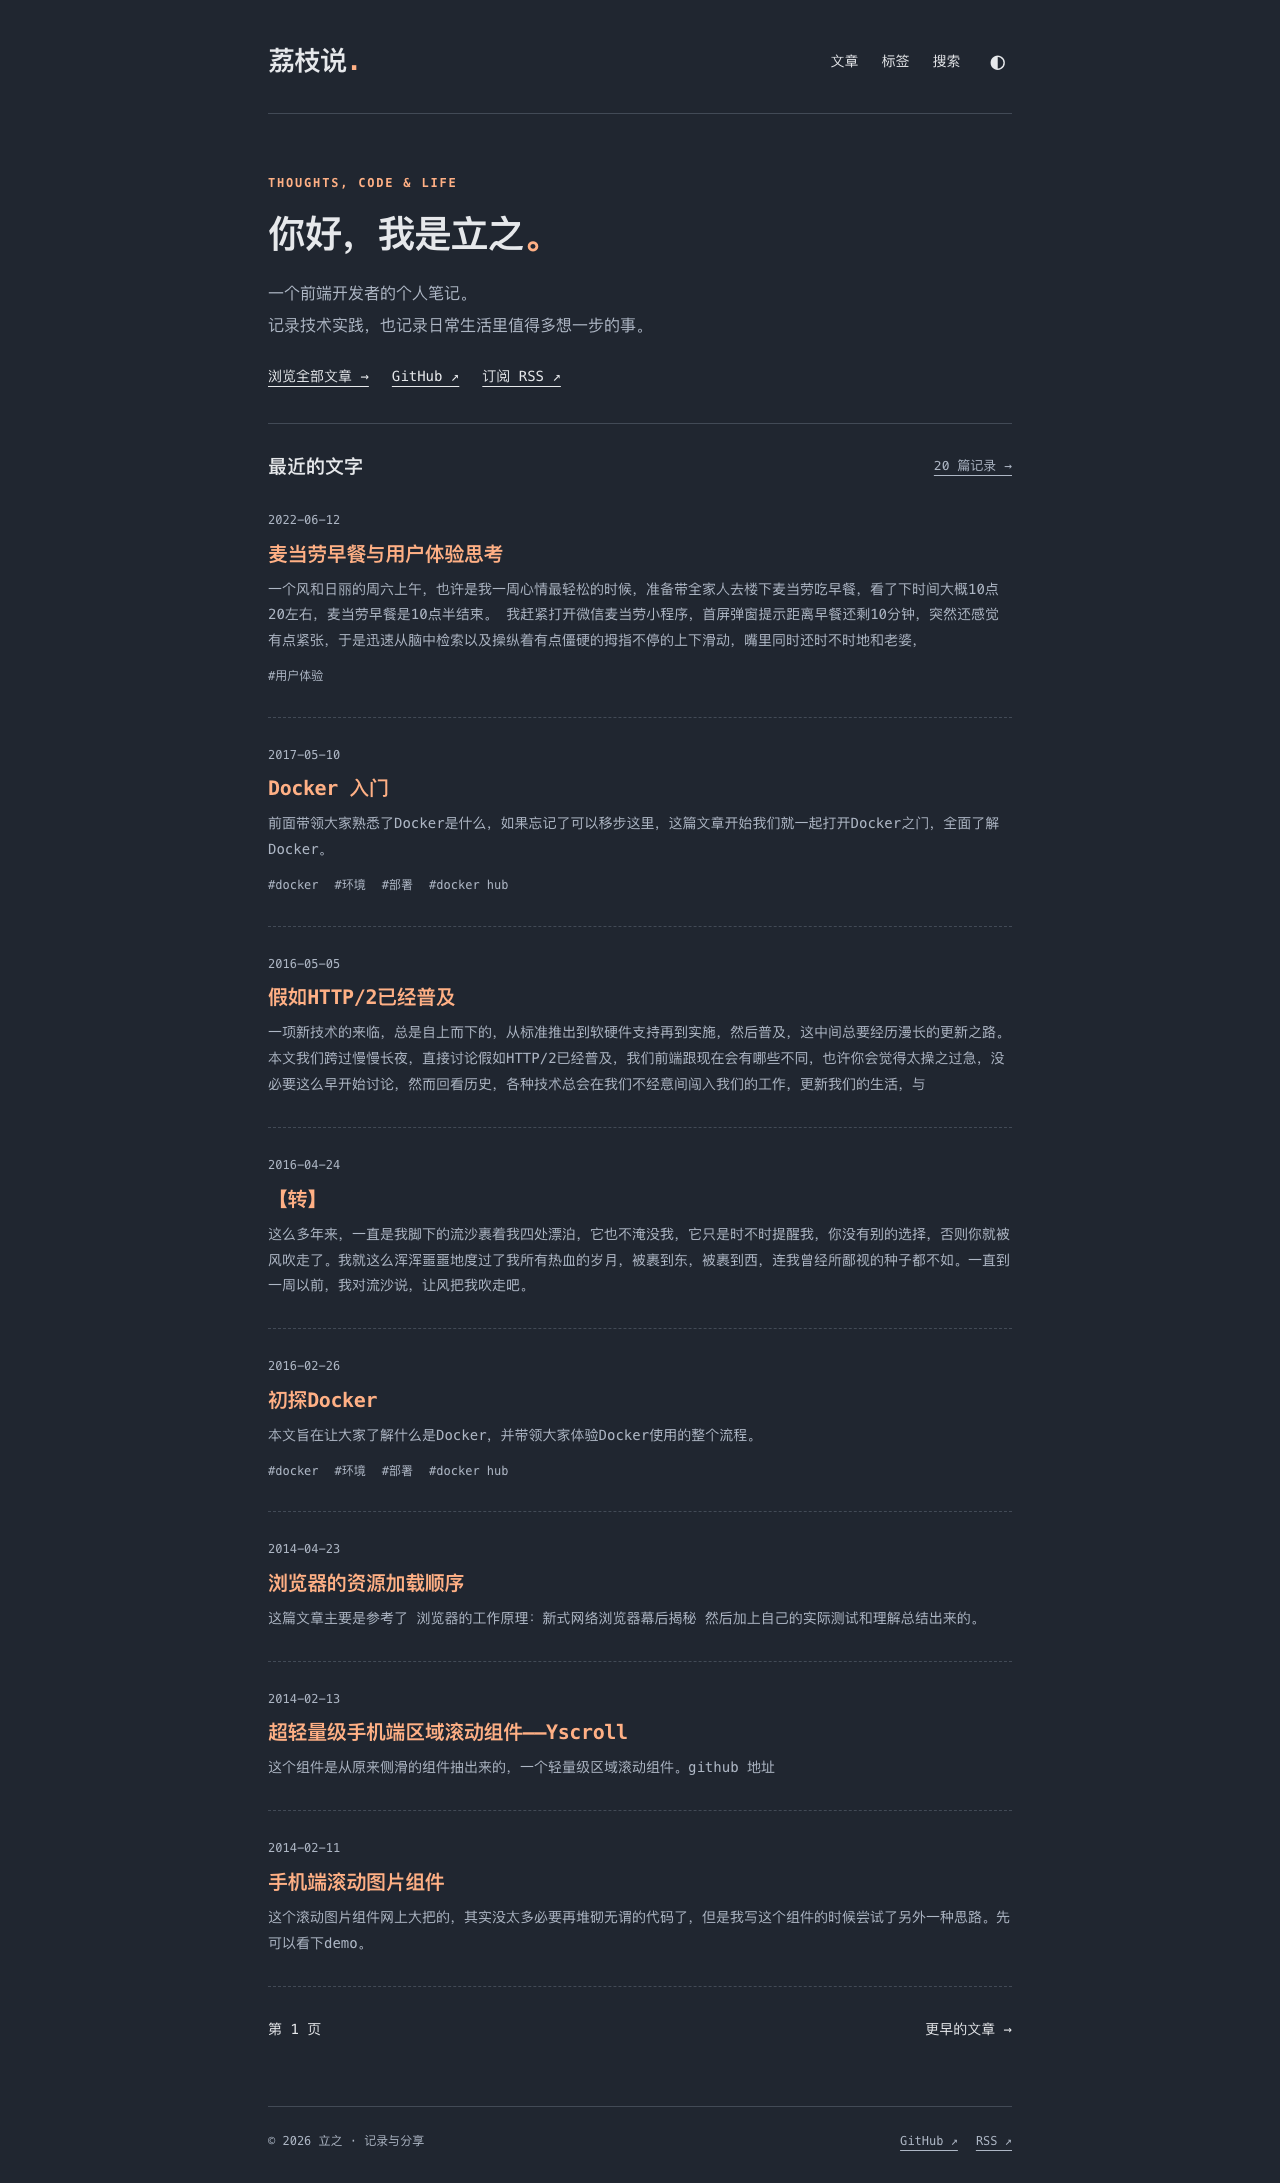
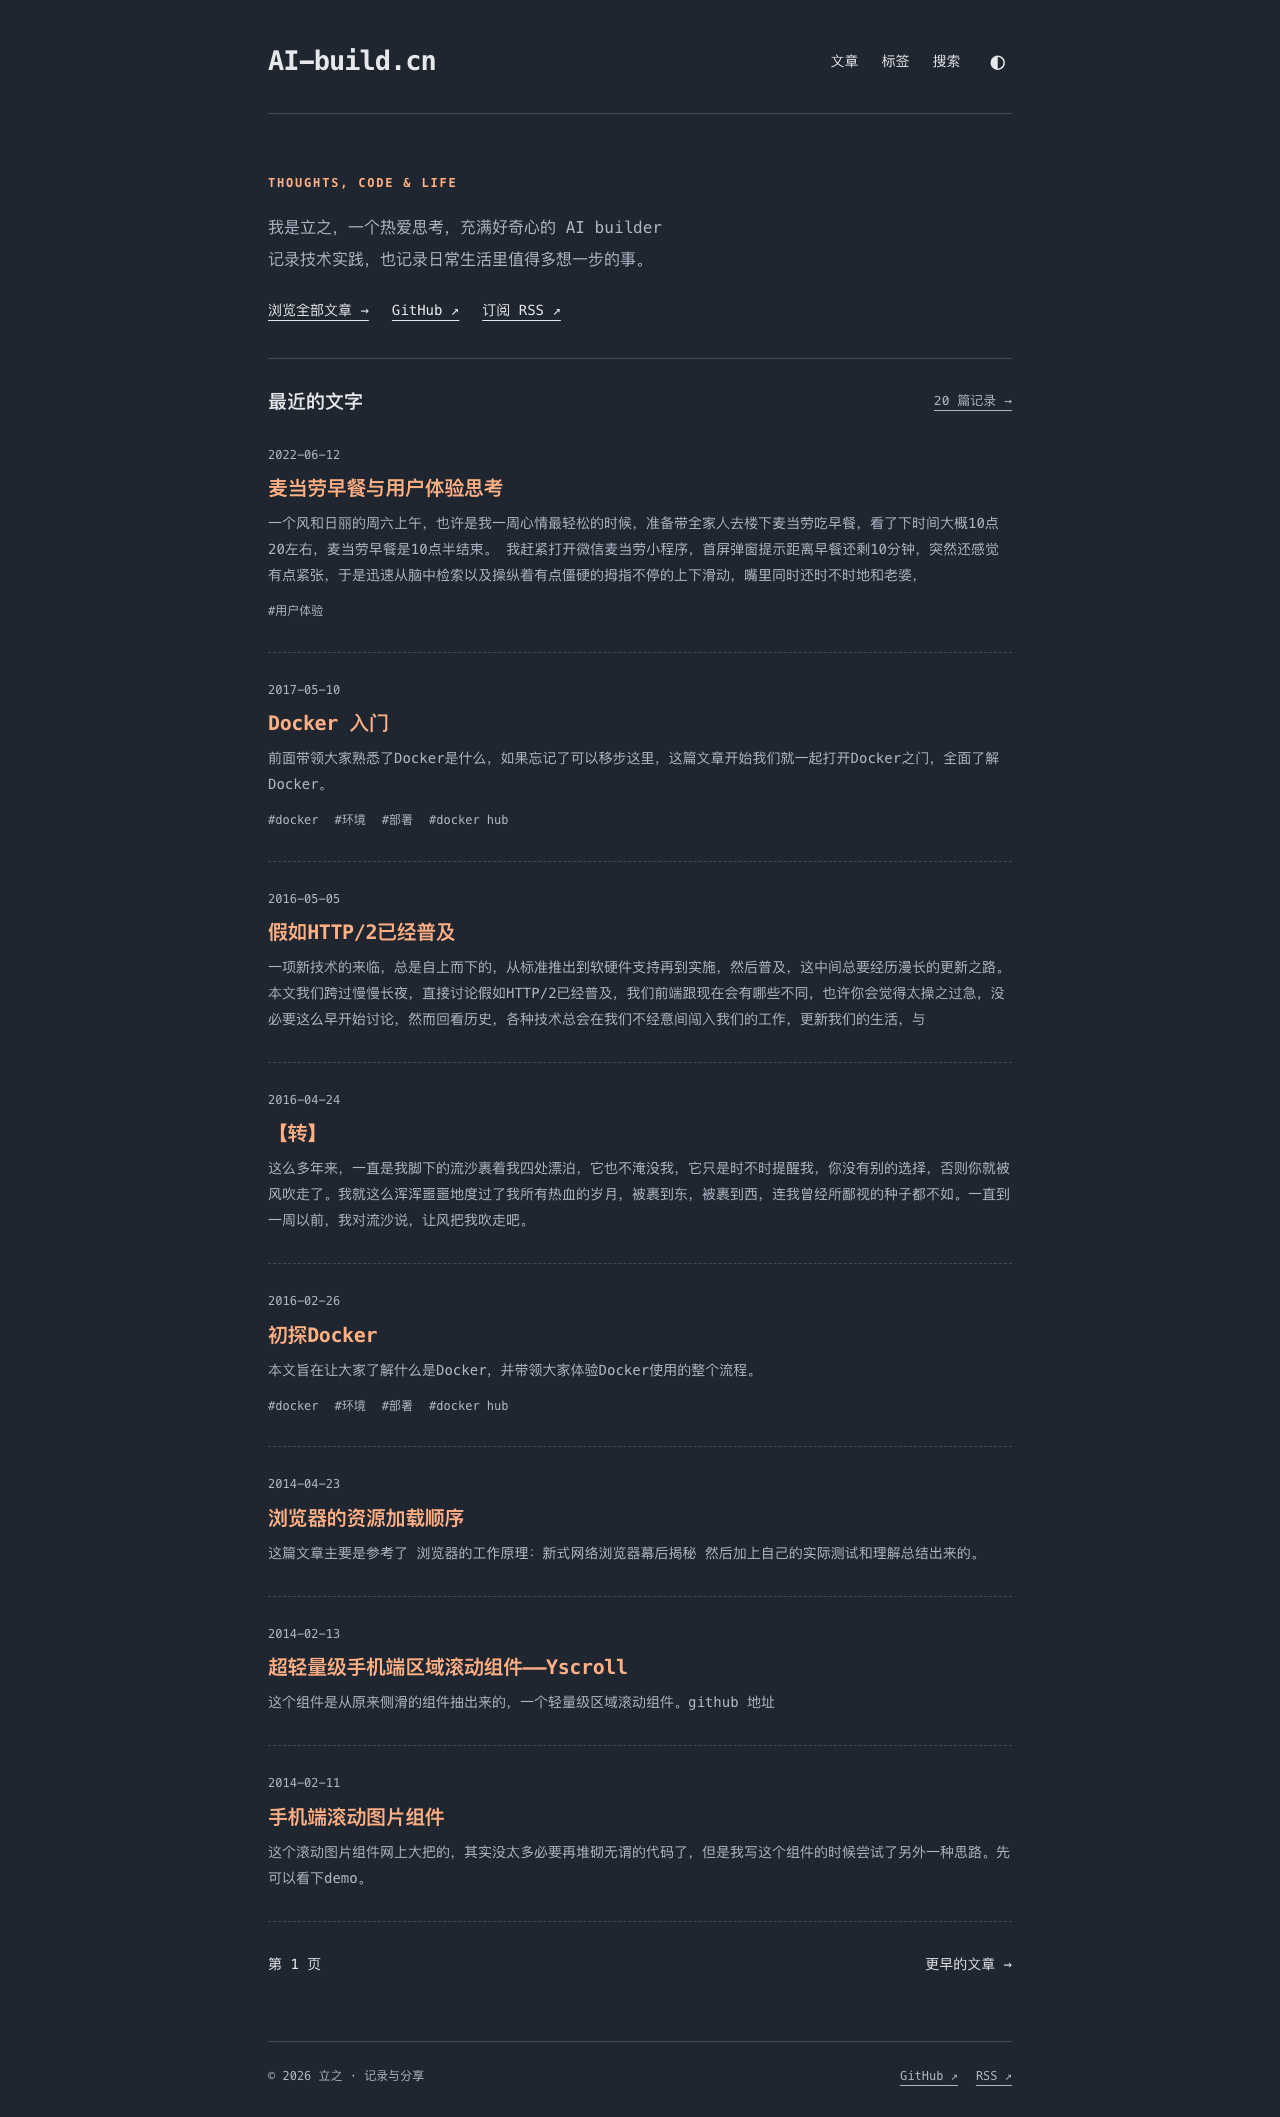
Update site branding and simplify homepage introduction

diff --git a/src/styles/global.css b/src/styles/global.css
@@ -1,8 +1,11 @@
 :root{color-scheme:light;--bg:#faf9f6;--text:#242a32;--muted:#626a75;--accent:#a84629;--line:#deded8;--soft:#efeee9;--code:#f1f1ed}
 :root[data-theme=dark]{color-scheme:dark;--bg:#202630;--text:#e6e8eb;--muted:#aeb7c5;--accent:#ffb085;--line:#424a56;--soft:#2b3340;--code:#29323e}
 @media(prefers-color-scheme:dark){:root:not([data-theme=light]){color-scheme:dark;--bg:#202630;--text:#e6e8eb;--muted:#aeb7c5;--accent:#ffb085;--line:#424a56;--soft:#2b3340;--code:#29323e}}
-*{box-sizing:border-box}html{scroll-padding-top:2rem}body{margin:0;background:var(--bg);color:var(--text);font-family:ui-monospace,SFMono-Regular,Menlo,Consolas,"PingFang SC","Microsoft YaHei",monospace;font-size:16px;line-height:1.8;-webkit-font-smoothing:antialiased}a{color:inherit;text-underline-offset:5px;text-decoration-thickness:1px}a:hover{color:var(--accent)}button,input{font:inherit}button{color:inherit}a,button,input{touch-action:manipulation}:focus-visible{outline:2px dashed var(--accent);outline-offset:5px}.site-shell{max-width:800px;padding:0 28px;margin:auto}.site-header{display:flex;align-items:center;justify-content:space-between;padding:37px 0 27px;border-bottom:1px solid var(--line);gap:20px}.brand{font-size:27px;font-weight:800;text-decoration:none;letter-spacing:-1px}.brand-dot{color:var(--accent)}nav{display:flex;align-items:center;gap:23px;font-size:14px}nav a{text-decoration:none}nav a[aria-current]{text-decoration:underline;color:var(--accent)}#theme-toggle{background:none;border:0;padding:3px 7px;font-size:24px;cursor:pointer;line-height:1}main{min-height:65vh;padding:42px 0 64px}main:focus{outline:none}.eyebrow{color:var(--accent);font-size:12px;letter-spacing:.15em;font-weight:600}.intro{padding:12px 0 34px}.intro h1{font-size:clamp(28px,5vw,38px);letter-spacing:-1.5px;margin:12px 0 16px;line-height:1.4}.intro p{max-width:590px;color:var(--muted);font-size:16px;line-height:2}.intro-links{display:flex;gap:23px;margin-top:22px;font-size:14px}.section-title{display:flex;justify-content:space-between;align-items:center;border-top:1px solid var(--line);padding-top:25px;margin-bottom:0}.section-title h2{font-size:19px;margin:0}.section-title a{font-size:13px;color:var(--muted)}.post-list{padding:0;list-style:none;margin:0}.post-list>li{padding:27px 0 29px;border-bottom:1px dashed var(--line)}.post-meta{font-size:12px;color:var(--muted);display:flex;gap:12px}.post-list h2{font-size:20px;line-height:1.6;margin:6px 0 7px;letter-spacing:-.4px}.post-list h2 a{color:var(--accent);text-decoration:none}.post-list h2 a:hover{text-decoration:underline}.post-list p{margin:0;color:var(--muted);font-size:14px;line-height:1.85;overflow-wrap:anywhere}.post-tags{display:flex;flex-wrap:wrap;gap:8px 16px;font-size:12px;margin-top:12px;color:var(--muted)}.post-tags a{text-decoration:none}.page-heading{font-size:28px;line-height:1.45;margin:10px 0}.page-description{color:var(--muted);margin-bottom:32px;font-size:14px}.breadcrumb{font-size:13px;color:var(--muted);margin-bottom:26px}.article-header h1{font-size:clamp(26px,5vw,34px);line-height:1.5;letter-spacing:-.7px;margin:16px 0}.article-header{margin-bottom:32px}.prose{line-height:1.95;overflow-wrap:anywhere}.prose p{margin:1.3em 0}.prose h1,.prose h2,.prose h3,.prose h4{line-height:1.5;margin:1.8em 0 .7em}.prose h2{font-size:24px;padding-bottom:8px;border-bottom:1px dashed var(--line)}.prose h3{font-size:20px}.prose h4{font-size:17px}.prose a{color:var(--accent)}.prose img{display:block;max-width:100%;height:auto;margin:24px auto;border-radius:3px}.prose img[width="30%"]{width:240px;max-width:75%}.prose pre{padding:20px;overflow-x:auto;border:1px solid var(--line);border-radius:5px;font-size:13px;line-height:1.7;max-width:100%}.prose :not(pre)>code{background:var(--code);padding:2px 5px;border-radius:3px;font-size:.9em}.prose blockquote{border-left:3px solid var(--accent);margin:24px 0;padding:1px 20px;color:var(--muted);background:var(--soft)}.prose table{display:block;overflow-x:auto;border-collapse:collapse;font-size:14px}.prose th,.prose td{padding:8px 12px;border:1px solid var(--line)}.prose iframe{max-width:100%}.prose hr{border:0;border-top:1px solid var(--line);margin:30px 0}.toc{padding:16px 20px;background:var(--soft);border-radius:5px;font-size:14px;margin-bottom:30px}.toc summary{cursor:pointer;font-weight:600}.toc ul{padding-left:20px}.toc a{color:var(--muted)}.article-end{border-top:1px solid var(--line);margin-top:40px;padding-top:20px;display:flex;justify-content:space-between;font-size:14px;gap:18px}.site-footer{padding:24px 0 30px;border-top:1px solid var(--line);display:flex;justify-content:space-between;gap:16px;font-size:12px;color:var(--muted)}.site-footer div{display:flex;gap:18px}.skip-link{position:fixed;top:-100px;left:12px;padding:10px 16px;background:var(--bg);z-index:100}.skip-link:focus{top:8px}.tag-cloud{display:flex;flex-wrap:wrap;gap:14px;margin:25px 0}.tag-cloud a{border:1px solid var(--line);padding:7px 14px;border-radius:4px;font-size:14px;text-decoration:none}.pagination{display:flex;justify-content:space-between;align-items:center;gap:12px;margin-top:30px;font-size:14px}.search-input{display:block;width:100%;background:var(--soft);border:1px solid var(--line);color:var(--text);padding:14px 16px;border-radius:4px;margin:12px 0}.search-status{color:var(--muted);font-size:13px}.draft-notice{padding:10px 15px;background:var(--soft);border-left:3px solid var(--accent)}
+*{box-sizing:border-box}html{scroll-padding-top:2rem}body{margin:0;background:var(--bg);color:var(--text);font-family:ui-monospace,SFMono-Regular,Menlo,Consolas,"PingFang SC","Microsoft YaHei",monospace;font-size:16px;line-height:1.8;-webkit-font-smoothing:antialiased}a{color:inherit;text-underline-offset:5px;text-decoration-thickness:1px}a:hover{color:var(--accent)}button,input{font:inherit}button{color:inherit}a,button,input{touch-action:manipulation}:focus-visible{outline:2px dashed var(--accent);outline-offset:5px}.site-shell{max-width:800px;padding:0 28px;margin:auto}.site-header{display:flex;align-items:center;justify-content:space-between;padding:37px 0 27px;border-bottom:1px solid var(--line);gap:20px}.brand{white-space:nowrap;font-size:27px;font-weight:800;text-decoration:none;letter-spacing:-1px}.brand-dot{color:var(--accent)}nav{display:flex;align-items:center;gap:23px;font-size:14px}nav a{text-decoration:none}nav a[aria-current]{text-decoration:underline;color:var(--accent)}#theme-toggle{background:none;border:0;padding:3px 7px;font-size:24px;cursor:pointer;line-height:1}main{min-height:65vh;padding:42px 0 64px}main:focus{outline:none}.eyebrow{color:var(--accent);font-size:12px;letter-spacing:.15em;font-weight:600}.intro{padding:12px 0 34px}.intro p{max-width:590px;color:var(--muted);font-size:16px;line-height:2}.intro-links{display:flex;gap:23px;margin-top:22px;font-size:14px}.section-title{display:flex;justify-content:space-between;align-items:center;border-top:1px solid var(--line);padding-top:25px;margin-bottom:0}.section-title h2{font-size:19px;margin:0}.section-title a{font-size:13px;color:var(--muted)}.post-list{padding:0;list-style:none;margin:0}.post-list>li{padding:27px 0 29px;border-bottom:1px dashed var(--line)}.post-meta{font-size:12px;color:var(--muted);display:flex;gap:12px}.post-list h2{font-size:20px;line-height:1.6;margin:6px 0 7px;letter-spacing:-.4px}.post-list h2 a{color:var(--accent);text-decoration:none}.post-list h2 a:hover{text-decoration:underline}.post-list p{margin:0;color:var(--muted);font-size:14px;line-height:1.85;overflow-wrap:anywhere}.post-tags{display:flex;flex-wrap:wrap;gap:8px 16px;font-size:12px;margin-top:12px;color:var(--muted)}.post-tags a{text-decoration:none}.page-heading{font-size:28px;line-height:1.45;margin:10px 0}.page-description{color:var(--muted);margin-bottom:32px;font-size:14px}.breadcrumb{font-size:13px;color:var(--muted);margin-bottom:26px}.article-header h1{font-size:clamp(26px,5vw,34px);line-height:1.5;letter-spacing:-.7px;margin:16px 0}.article-header{margin-bottom:32px}.prose{line-height:1.95;overflow-wrap:anywhere}.prose p{margin:1.3em 0}.prose h1,.prose h2,.prose h3,.prose h4{line-height:1.5;margin:1.8em 0 .7em}.prose h2{font-size:24px;padding-bottom:8px;border-bottom:1px dashed var(--line)}.prose h3{font-size:20px}.prose h4{font-size:17px}.prose a{color:var(--accent)}.prose img{display:block;max-width:100%;height:auto;margin:24px auto;border-radius:3px}.prose img[width="30%"]{width:240px;max-width:75%}.prose pre{padding:20px;overflow-x:auto;border:1px solid var(--line);border-radius:5px;font-size:13px;line-height:1.7;max-width:100%}.prose :not(pre)>code{background:var(--code);padding:2px 5px;border-radius:3px;font-size:.9em}.prose blockquote{border-left:3px solid var(--accent);margin:24px 0;padding:1px 20px;color:var(--muted);background:var(--soft)}.prose table{display:block;overflow-x:auto;border-collapse:collapse;font-size:14px}.prose th,.prose td{padding:8px 12px;border:1px solid var(--line)}.prose iframe{max-width:100%}.prose hr{border:0;border-top:1px solid var(--line);margin:30px 0}.toc{padding:16px 20px;background:var(--soft);border-radius:5px;font-size:14px;margin-bottom:30px}.toc summary{cursor:pointer;font-weight:600}.toc ul{padding-left:20px}.toc a{color:var(--muted)}.article-end{border-top:1px solid var(--line);margin-top:40px;padding-top:20px;display:flex;justify-content:space-between;font-size:14px;gap:18px}.site-footer{padding:24px 0 30px;border-top:1px solid var(--line);display:flex;justify-content:space-between;gap:16px;font-size:12px;color:var(--muted)}.site-footer div{display:flex;gap:18px}.skip-link{position:fixed;top:-100px;left:12px;padding:10px 16px;background:var(--bg);z-index:100}.skip-link:focus{top:8px}.tag-cloud{display:flex;flex-wrap:wrap;gap:14px;margin:25px 0}.tag-cloud a{border:1px solid var(--line);padding:7px 14px;border-radius:4px;font-size:14px;text-decoration:none}.pagination{display:flex;justify-content:space-between;align-items:center;gap:12px;margin-top:30px;font-size:14px}.search-input{display:block;width:100%;background:var(--soft);border:1px solid var(--line);color:var(--text);padding:14px 16px;border-radius:4px;margin:12px 0}.search-status{color:var(--muted);font-size:13px}.draft-notice{padding:10px 15px;background:var(--soft);border-left:3px solid var(--accent)}
 :root[data-theme=dark] .astro-code,:root[data-theme=dark] .astro-code span{color:var(--shiki-dark)!important;background-color:var(--shiki-dark-bg)!important}
 @media(prefers-color-scheme:dark){:root:not([data-theme=light]) .astro-code,:root:not([data-theme=light]) .astro-code span{color:var(--shiki-dark)!important;background-color:var(--shiki-dark-bg)!important}}
-@media(max-width:540px){.site-shell{padding:0 20px}.site-header{padding:25px 0 21px;gap:12px}.brand{font-size:23px}nav{gap:15px;font-size:13px}main{padding-top:30px}.intro{padding-top:5px}.intro h1{letter-spacing:-1px}.post-list h2{font-size:18px}.site-footer{flex-direction:column;gap:6px}.prose{font-size:15px}.prose pre{padding:14px}.article-end{flex-wrap:wrap}}
+@media(max-width:540px){.site-shell{padding:0 20px}.site-header{padding:25px 0 21px;gap:12px}.brand{font-size:23px}nav{gap:15px;font-size:13px}main{padding-top:30px}.intro{padding-top:5px}.post-list h2{font-size:18px}.site-footer{flex-direction:column;gap:6px}.prose{font-size:15px}.prose pre{padding:14px}.article-end{flex-wrap:wrap}}
 @media(prefers-reduced-motion:no-preference){html{scroll-behavior:smooth}}
+
+.sr-only{position:absolute;width:1px;height:1px;padding:0;margin:-1px;overflow:hidden;clip:rect(0,0,0,0);white-space:nowrap;border:0}
+@media(max-width:380px){.site-header{flex-wrap:wrap;row-gap:16px}.site-header nav{width:100%;justify-content:flex-end}}

diff --git a/tests/blog.spec.ts b/tests/blog.spec.ts
@@ -6,7 +6,9 @@ test('home, pagination, theme persistence and search', async ({ page }) => {
   page.on('pageerror', error => errors.push(error.message));
   const entries = await (await page.request.get('/search-index.json')).json();
   await page.goto('/');
-  await expect(page.getByRole('heading', { level: 1 })).toContainText('你好，我是立之');
+  await expect(page.locator('.brand')).toHaveText('AI-build.cn');
+  await expect(page).toHaveTitle('AI-build.cn · l-zhi');
+  await expect(page.locator('.intro p')).toContainText('我是立之，一个热爱思考，充满好奇心的 AI builder');
   await expect(page.locator('.post-list > li')).toHaveCount(Math.min(SITE.pageSize, entries.length));
   await page.screenshot({ path: 'docs/screenshots/home-desktop.png', fullPage: true });
   await page.getByRole('button', { name: '切换明暗主题' }).click();

diff --git a/src/config.ts b/src/config.ts
@@ -1,8 +1,8 @@
 export const SITE = {
-  title: '荔枝说',
+  title: 'AI-build.cn',
   author: '立之',
   url: 'https://ai-build.cn',
-  description: '记录前端、技术与生活。在实践里寻找答案，在文字里保留思考。',
+  description: '我是立之，一个热爱思考，充满好奇心的 AI builder。记录技术实践，也记录日常生活里值得多想一步的事。',
   github: 'https://github.com/l-zhi',
   pageSize: 8,
 };
